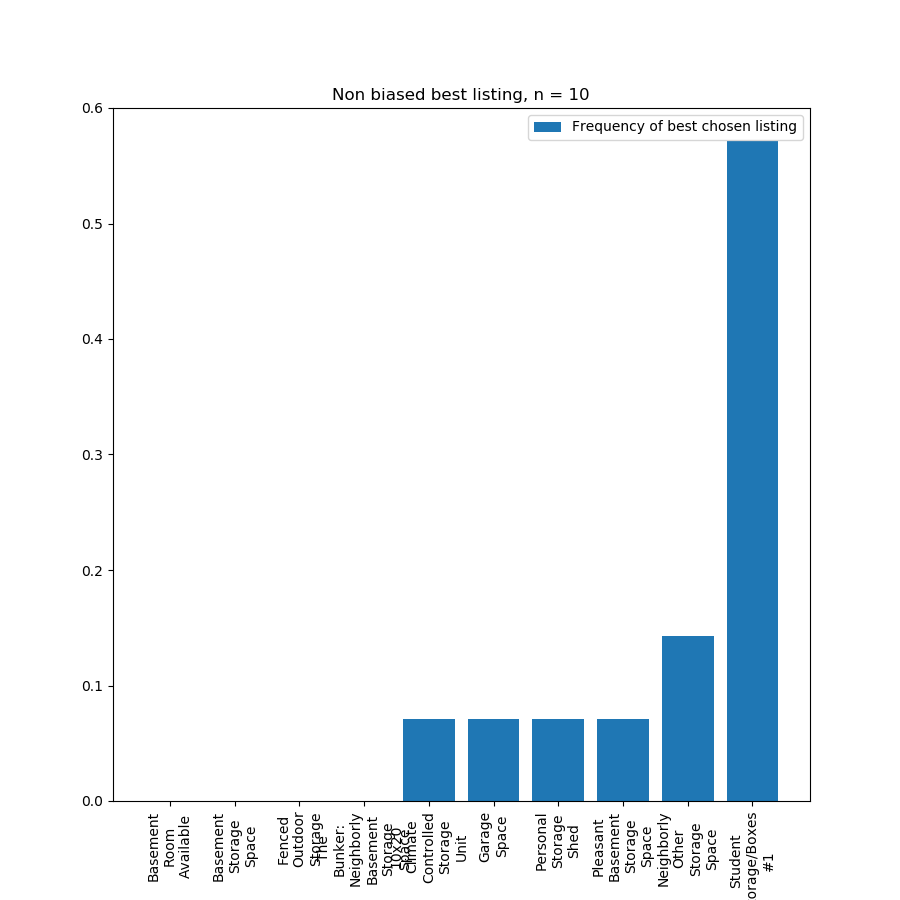
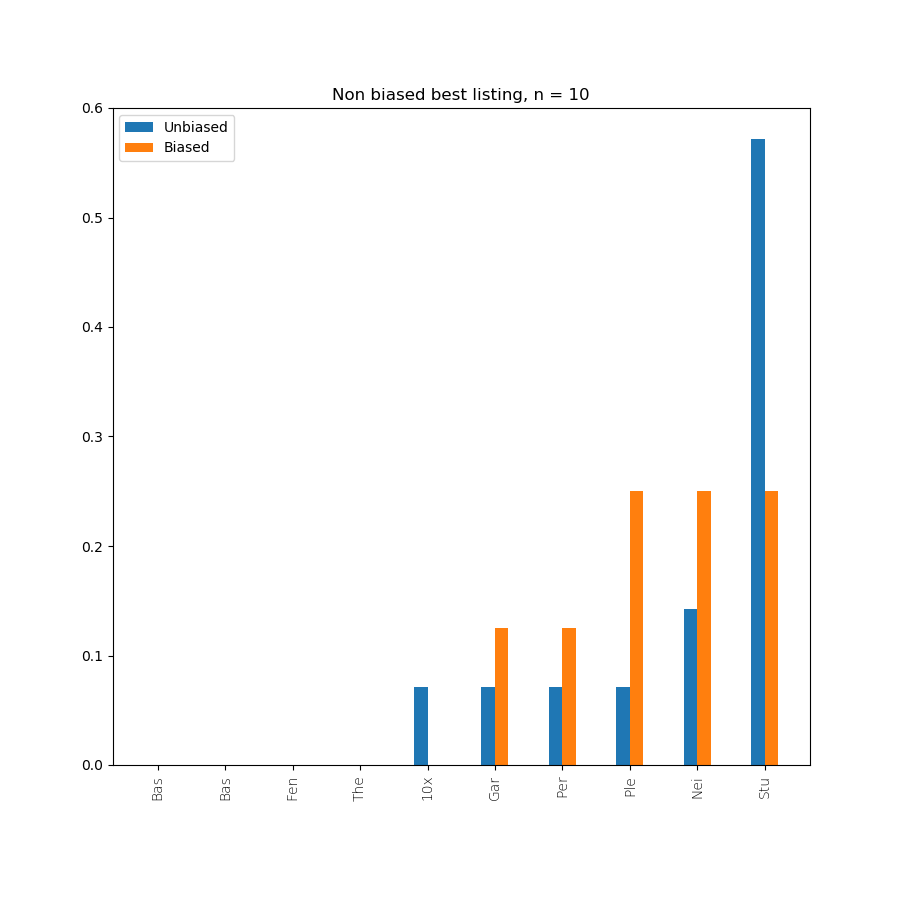
.

diff --git a/dataparse.py b/dataparse.py
@@ -115,7 +115,7 @@ def get_freqs(order):
         idx = np.argmax(lengths)
         result[names[idx]] += 1
 
-    labels = [x.replace(" ", "\n") for _, x in sorted(zip(result.values(), result.keys()))]
+    labels = [x.replace(" ", "\n")[:2] for _, x in sorted(zip(result.values(), result.keys()))]
     freqs = sorted(list(result.values()))
     freqs = list(map (lambda x: x / sum(freqs), freqs))
     return (labels, freqs)
@@ -128,18 +128,27 @@ def graph_freq(order, biased_order, name, title):
     biased_labels, biased_freqs = get_freqs(biased_order)
 
     ind = np.arange(len(freqs))
-    width = 0.35
+    width = 0.2
     plt.figure(figsize=(9,9))
-    fig, ax = plt.subplots()
-    rects1 = ax.bar(ind - width/2, freqs, width, yerr=np.std(freqs),
+    fig, ax = plt.subplots(figsize=(9,9))
+    rects1 = ax.bar(ind - width/2, freqs, width,
                 label='Unbiased')
-    rects2 = ax.bar(ind + width/2, biased_freqs, width, yerr=np.std(biased_freqs),
+    rects2 = ax.bar(ind + width/2, biased_freqs, width,
                 label='Biased')
 
     # plt.bar(labels, freqs, label="Frequency of best chosen listing")
-    plt.xticks(labels, rotation="vertical")
+    # ax.set_xticks(ind)
+    # ax.set_xticklabels(labels, fontdict=
+    # {
+    #     'fontsize': 6,
+    #     'fontweight': 3,
+    #     'verticalalignment': 'center',
+    #     'horizontalalignment' : 'center'
+    # })
+    plt.xticks(ind, labels, rotation='vertical', weight="8")
     plt.title(title.format("best", len(freqs)))
     plt.legend()
+    plt.subplots_adjust(bottom=0.15)
 
     plt.savefig("./graphs/best_{}.png".format(name))
 
@@ -226,8 +235,8 @@ if __name__ == "__main__":
     response = get_response()
     # print(response)
     biased, listings = parse_response(response)
-    graph_freq(listings, "Non_biased", "Non biased {} listing, n = {}")
-    graph_freq(biased, "Biased", "Biased {} listing, n = {}")
+    graph_freq(listings, biased, "Non_biased", "Non biased {} listing, n = {}")
+    # graph_freq(biased, "Biased", "Biased {} listing, n = {}")
 
 
     print("==parse2==")
